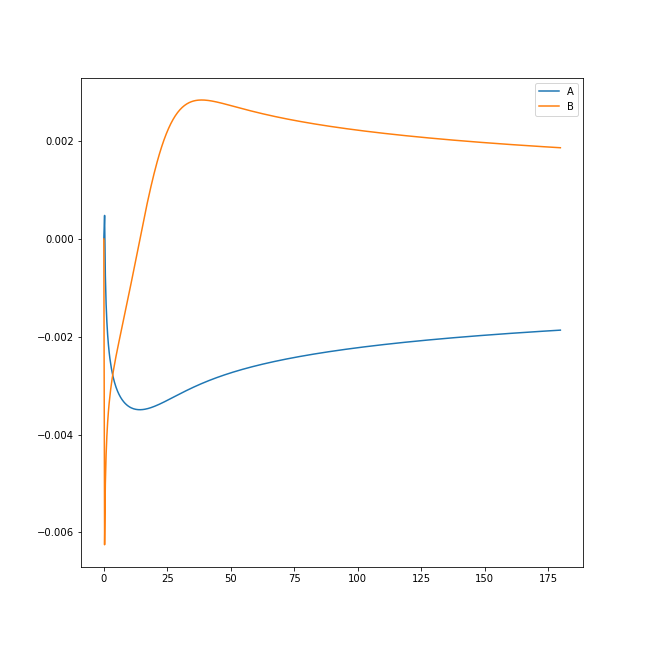
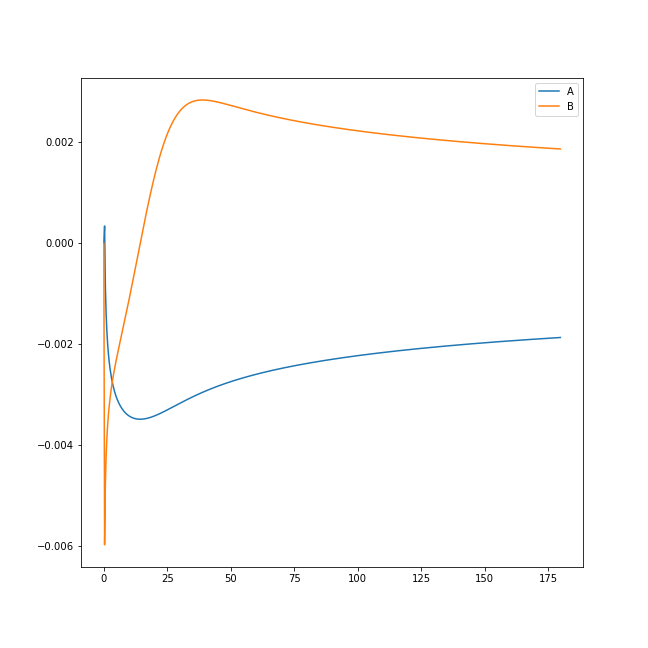
Changed H_ratio

diff --git a/scripts/X/attempt_2.py b/scripts/X/attempt_2.py
@@ -14,7 +14,7 @@ import matplotlib.pyplot as plt
 #User input
 n = 600 #Interval Steps
 ZETA_MAX = 180
-ZETA_Sn = [0.01, 0.1, 0.2, 0.5, 1]
+ZETA_Sn = [0.1]
 loops = 20
 #-----------------------------------------------------------------------
 #Global variables afterwards
@@ -46,6 +46,30 @@ def metric(A, B):
     grr = np.exp(2*B)
     return(goo, grr)
 
+def H_ratio_func(ZETA, goo, grr):
+    
+    """
+    Creates ratio of H_tilde and its second derivative using finite differences
+    
+    Parameters:
+        ZETA: 1D np array
+        goo: 1D np array 
+        grr: 1D np array
+    Outputs:
+        H_return: 1D np array
+    """
+    
+    H_tilde = ZETA*np.sqrt(np.sqrt(goo/grr))
+    H_tilde_2nd = np.zeros_like(H_tilde)
+    for i in range(len(H_tilde_2nd)):
+        if i == 0 or i == len(H_tilde_2nd)-1:
+            H_tilde_2nd[i] = 0
+        else:
+            H_tilde_2nd[i] = (DEL**2)*((ZETA[i+1]*np.sqrt(np.sqrt(goo[i+1]/grr[i+1])))-2*(ZETA[i]*np.sqrt(np.sqrt(goo[i]/grr[i])))+(ZETA[i-1]*np.sqrt(np.sqrt(goo[i-1]/grr[i-1]))))
+    H_return = H_tilde_2nd/H_tilde
+    H_return[0] = 0
+    return H_return
+
 def matrix_const(A, B, ZETA, ZETA_S):
     
     """
@@ -65,12 +89,9 @@ def matrix_const(A, B, ZETA, ZETA_S):
     C = np.zeros_like(ZETA)
     D = np.zeros_like(ZETA)
     E = np.zeros_like(ZETA)
+    H_ratio = H_ratio_func(ZETA, goo, grr)
     for i in range(N_max):
-        if ZETA[i] == 0:
-            H_ratio = 0
-        else:
-            H_ratio = ((ZETA_S**2)/(4*(ZETA[i]**2)*((ZETA[i]**2)-(ZETA_S**2))))
-        C[i] = -(goo[i]/grr[i])*H_ratio + (4/ZETA_S)*(np.exp(A[i])*np.sinh(A[i])) + (2/(DEL**2))*(goo[i]/grr[i])
+        C[i] = (goo[i]/grr[i])*H_ratio[i] + (4/ZETA_S)*(np.exp(A[i])*np.sinh(A[i])) + (2/(DEL**2))*(goo[i]/grr[i])
         if i > 0:
             D[i] = -np.sqrt(goo[i]/grr[i])*np.sqrt(goo[i-1]/grr[i-1])*(1/DEL**2)
         if i < N_max-1:
@@ -143,7 +164,7 @@ def radial_func(U, goo, grr, ZETA):
     
     R = np.zeros_like(U)
     use = np.where(ZETA != 0)
-    R[use] = np.sqrt(np.sqrt(goo[use] / grr[use])) * U[use] / (ZETA[use])
+    R[use] = np.sqrt(np.sqrt(goo[use])/grr[use]) * U[use] / (ZETA[use])
     return R
     
 def der_of_R(R):
@@ -215,19 +236,12 @@ def Runge_Kutta(U_bar, epsilon, A, B, ZETA_S):
     A[N_max-1] = np.log(1-ZETA_S*mu_tilde_end/ZETA[N_max-1])/2
     B[N_max-1] = -A[N_max-1]
     for i in range(N_max-1, 0, -1):
-        if i == 0:
-            A[i] = 0
-            B[i] = 0
-            continue
-        else:
-            dA_val, dB_val = values_for_RK(A[i], B[i], ZETA, R_array, dR_array, i, epsilon, ZETA_S)
+        dA_val, dB_val = values_for_RK(A[i], B[i], ZETA, R_array, dR_array, i, epsilon, ZETA_S)
         A_temp = A[i] - DEL * dA_val
         B_temp = B[i] - DEL * dB_val
         dA_val2, dB_val2 = values_for_RK(A_temp, B_temp, ZETA, R_array, dR_array, i-1, epsilon, ZETA_S)
         A[i-1] = A[i] - (DEL / 2) * (dA_val + dA_val2)
         B[i-1] = B[i] - (DEL / 2) * (dB_val + dB_val2)
-    A[0] = 0
-    B[0] = 0
     return A, B
 
 #Main Function------------------------------------------------------------
@@ -257,6 +271,12 @@ def main():
         plt.plot(ZETA, B_array, label="B")
         plt.legend()
         plt.savefig(f'A_and_B_of_{ZETA_Sn[j]}.png')
+    plt.figure(figsize=(9,9))
+    goo, grr = metric(A_array, B_array)
+    H_vec = H_ratio_func(ZETA, goo, grr)
+    plt.plot(ZETA, H_vec)
+    plt.xlim((0, 20))
+    plt.ylim((-.0002, .0002))
     plt.figure(figsize=(9, 9))
     for i in range(len(ZETA_Sn)):
         plt.plot(ZETA, abs(U_Bars_matrix[:, i]), label = f'ZETA_S = {ZETA_Sn[i]}')
